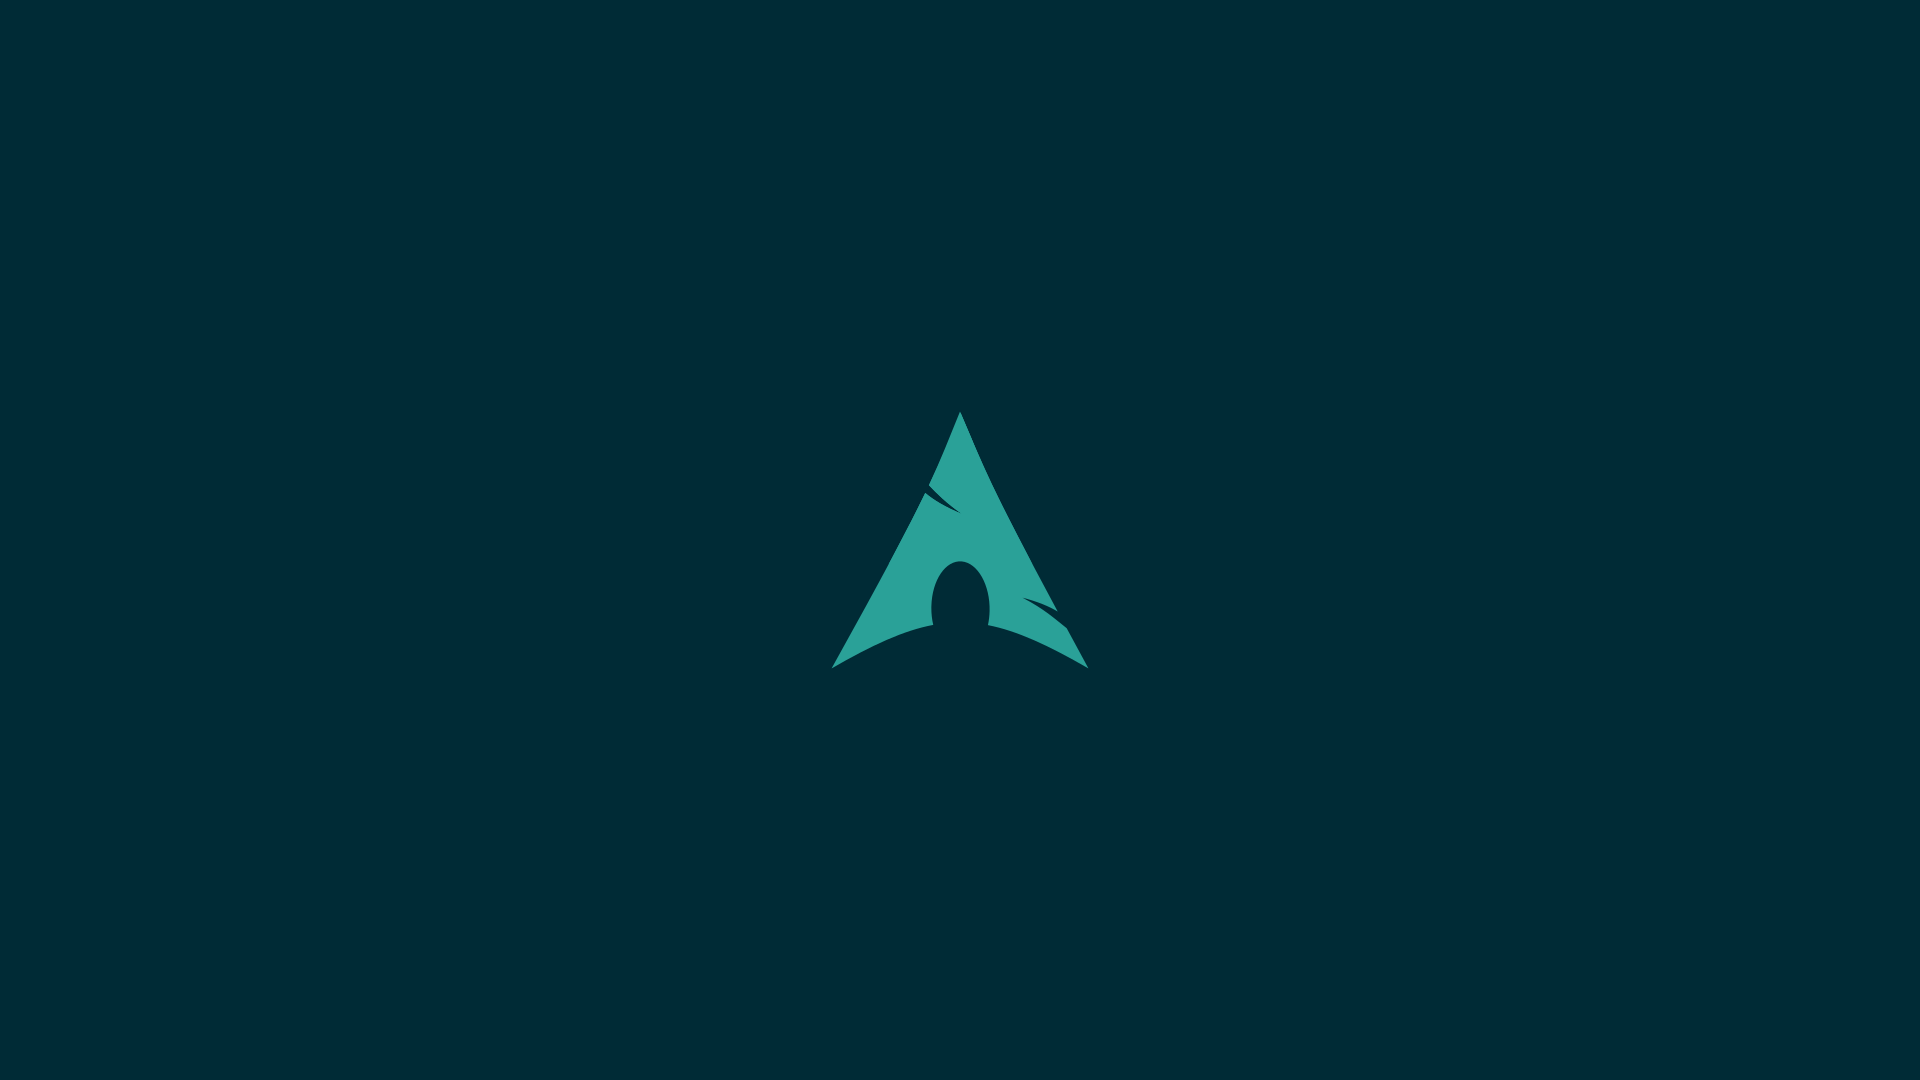
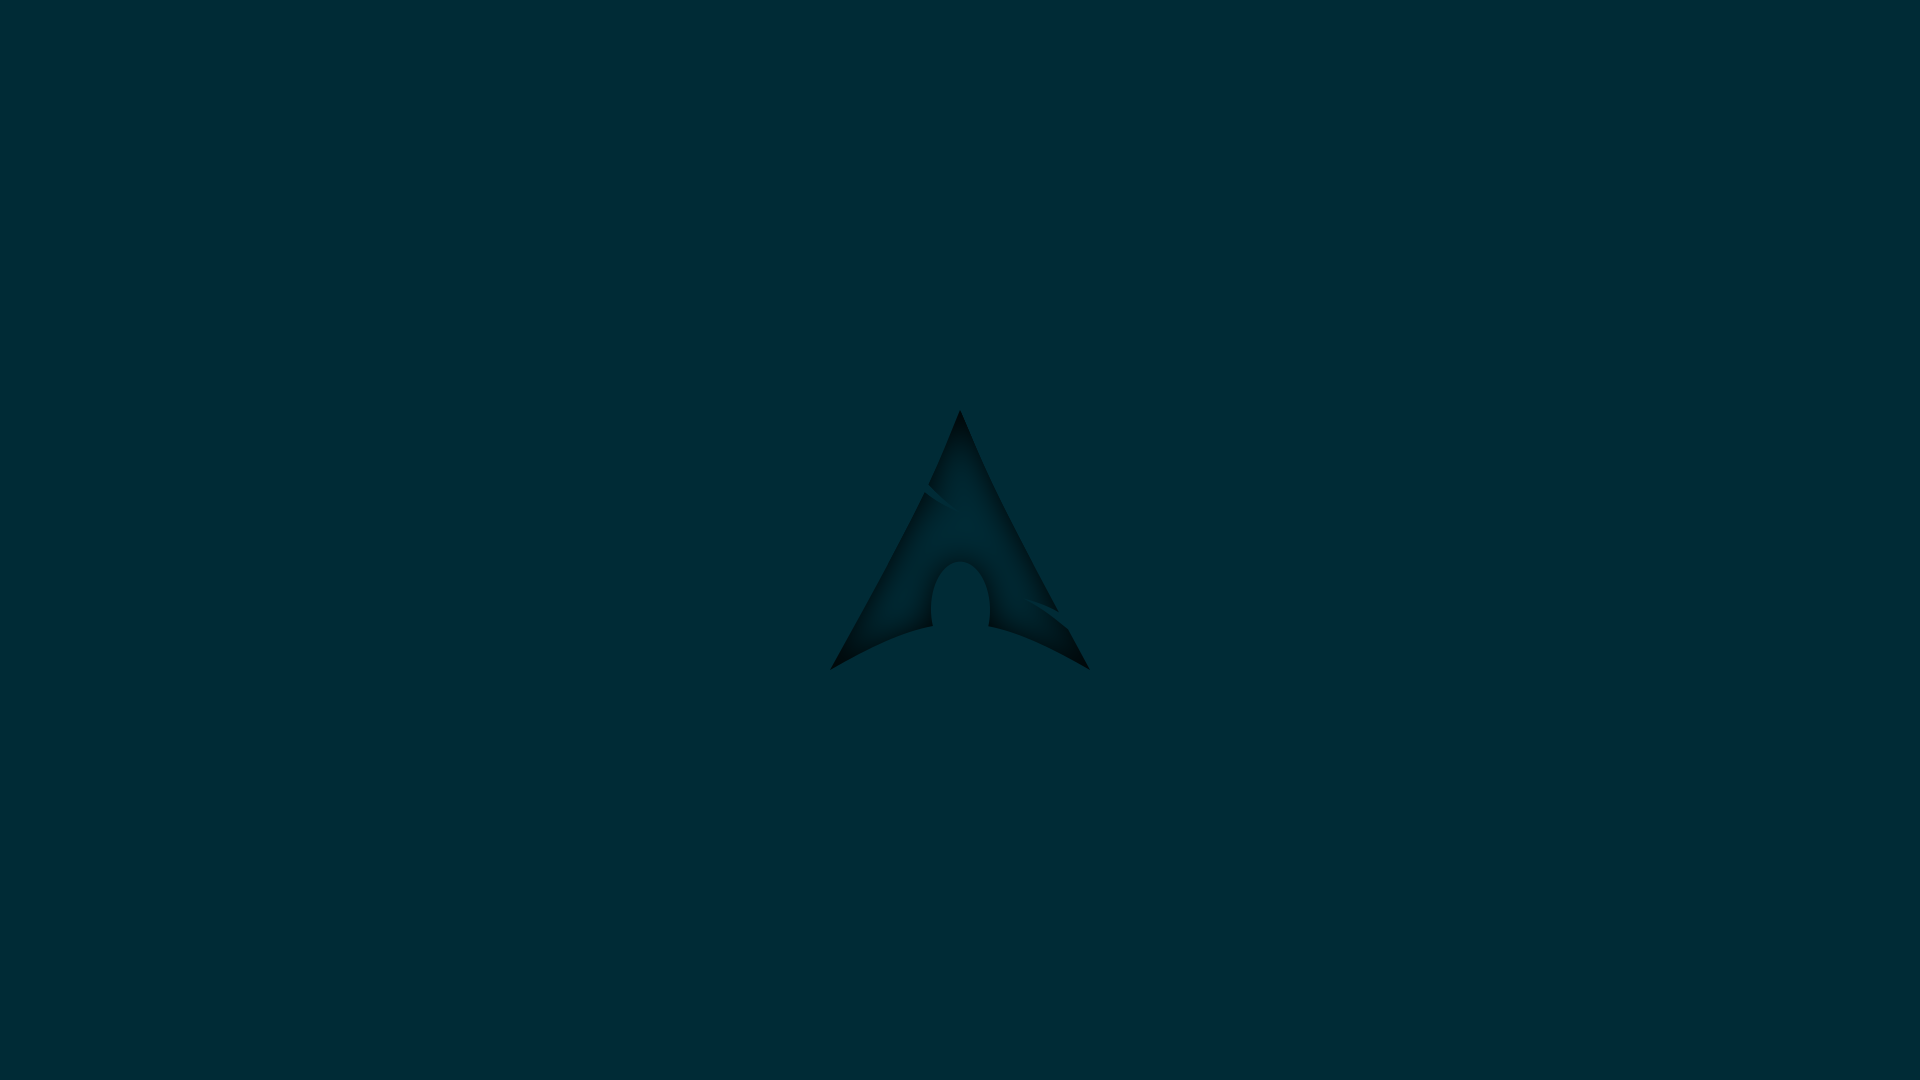
new img

Changed region(s): [[0.4375, 0.3972, 0.5625, 0.6111]]

diff --git a/README.md b/README.md
@@ -2,5 +2,4 @@
 
 [Get it on the AUR.](https://aur.archlinux.org/packages/plymouth-theme-arch-solarized-git/).
 
-All credit for the background image goes to [@hundone on deviantart](https://hundone.deviantart.com/art/Solarized-Arch-Linux-526680930).
-
+I created the background image using the Arch Linux logo vector. Feel free to use it.
